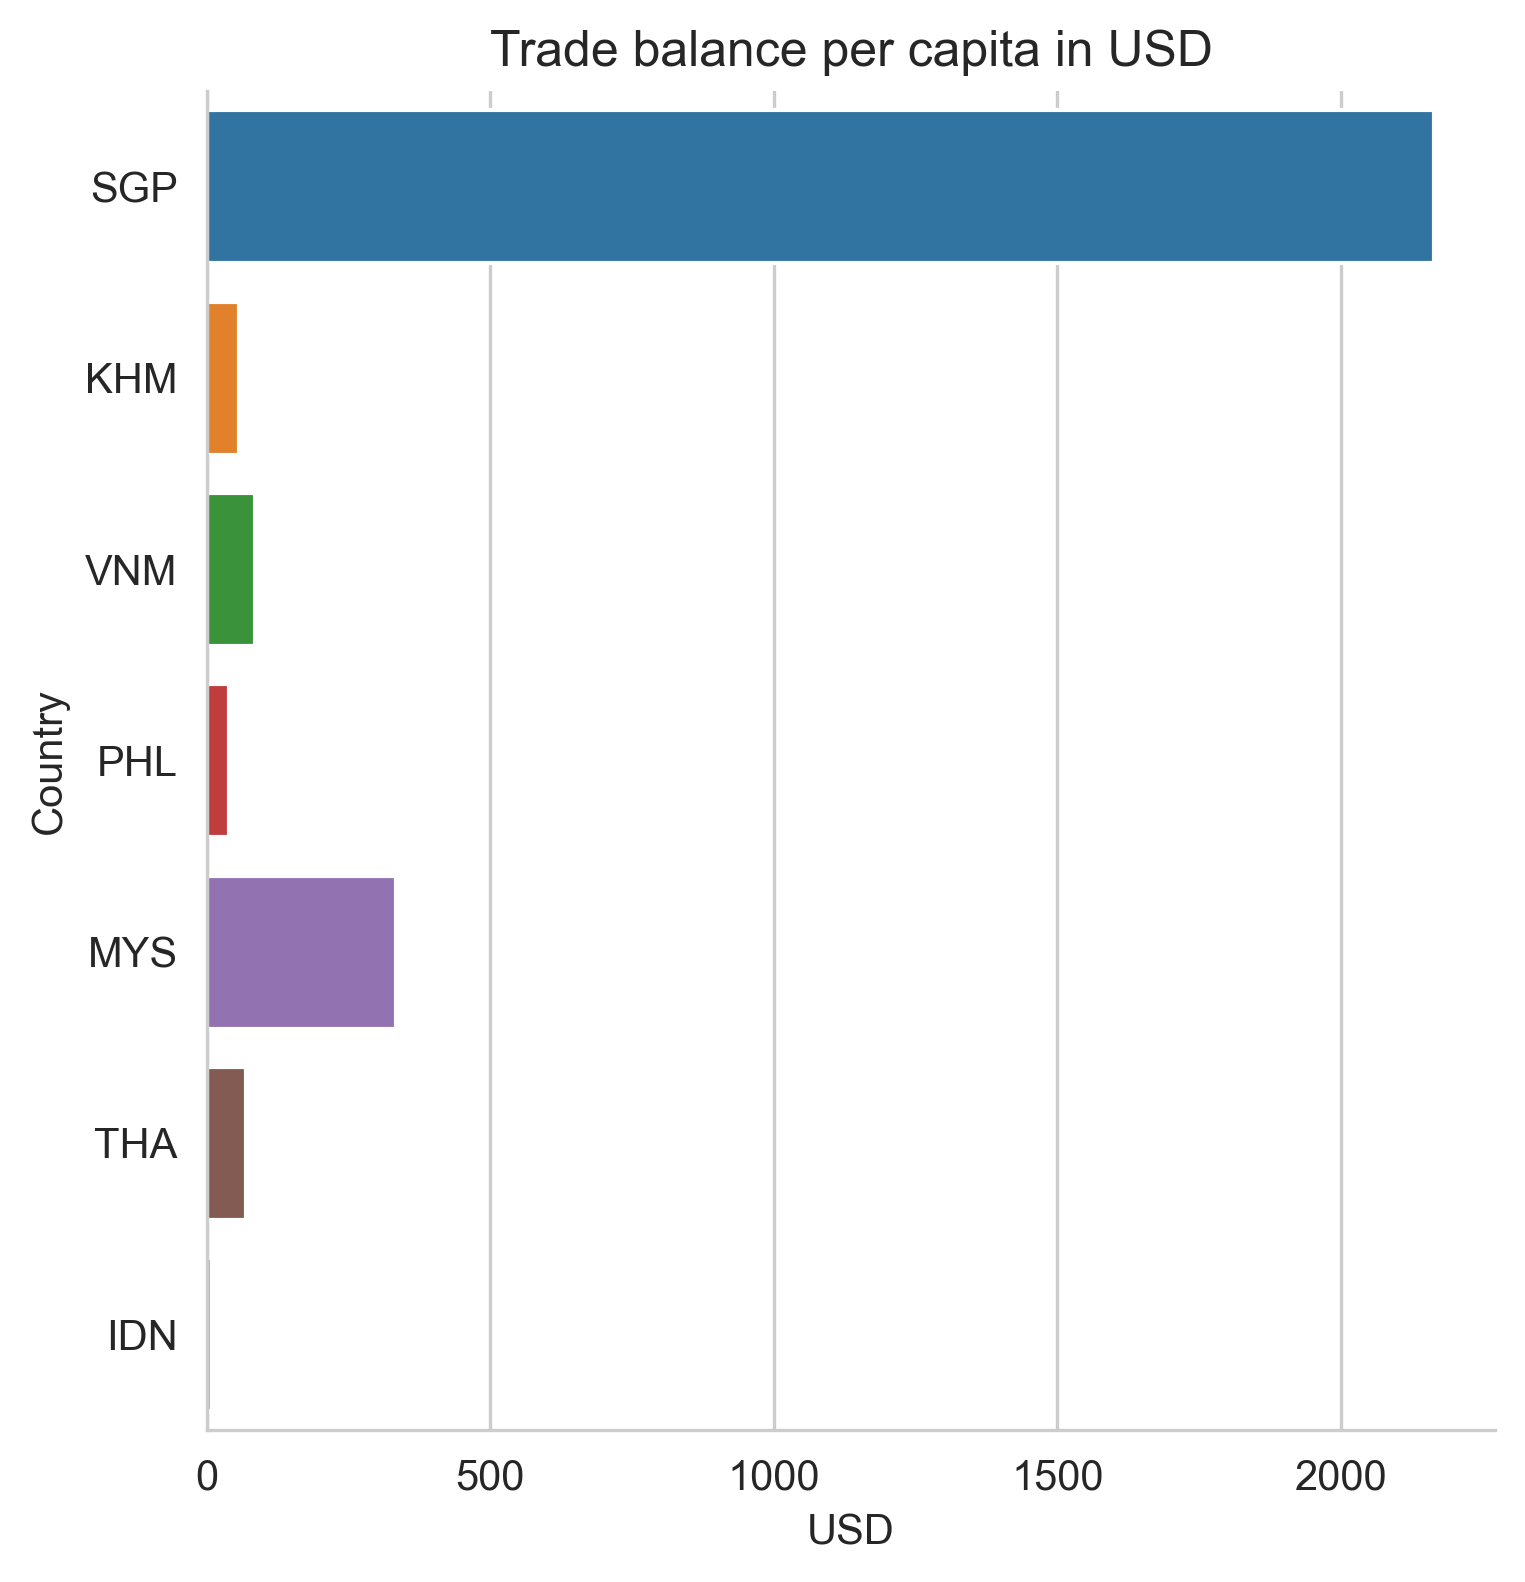
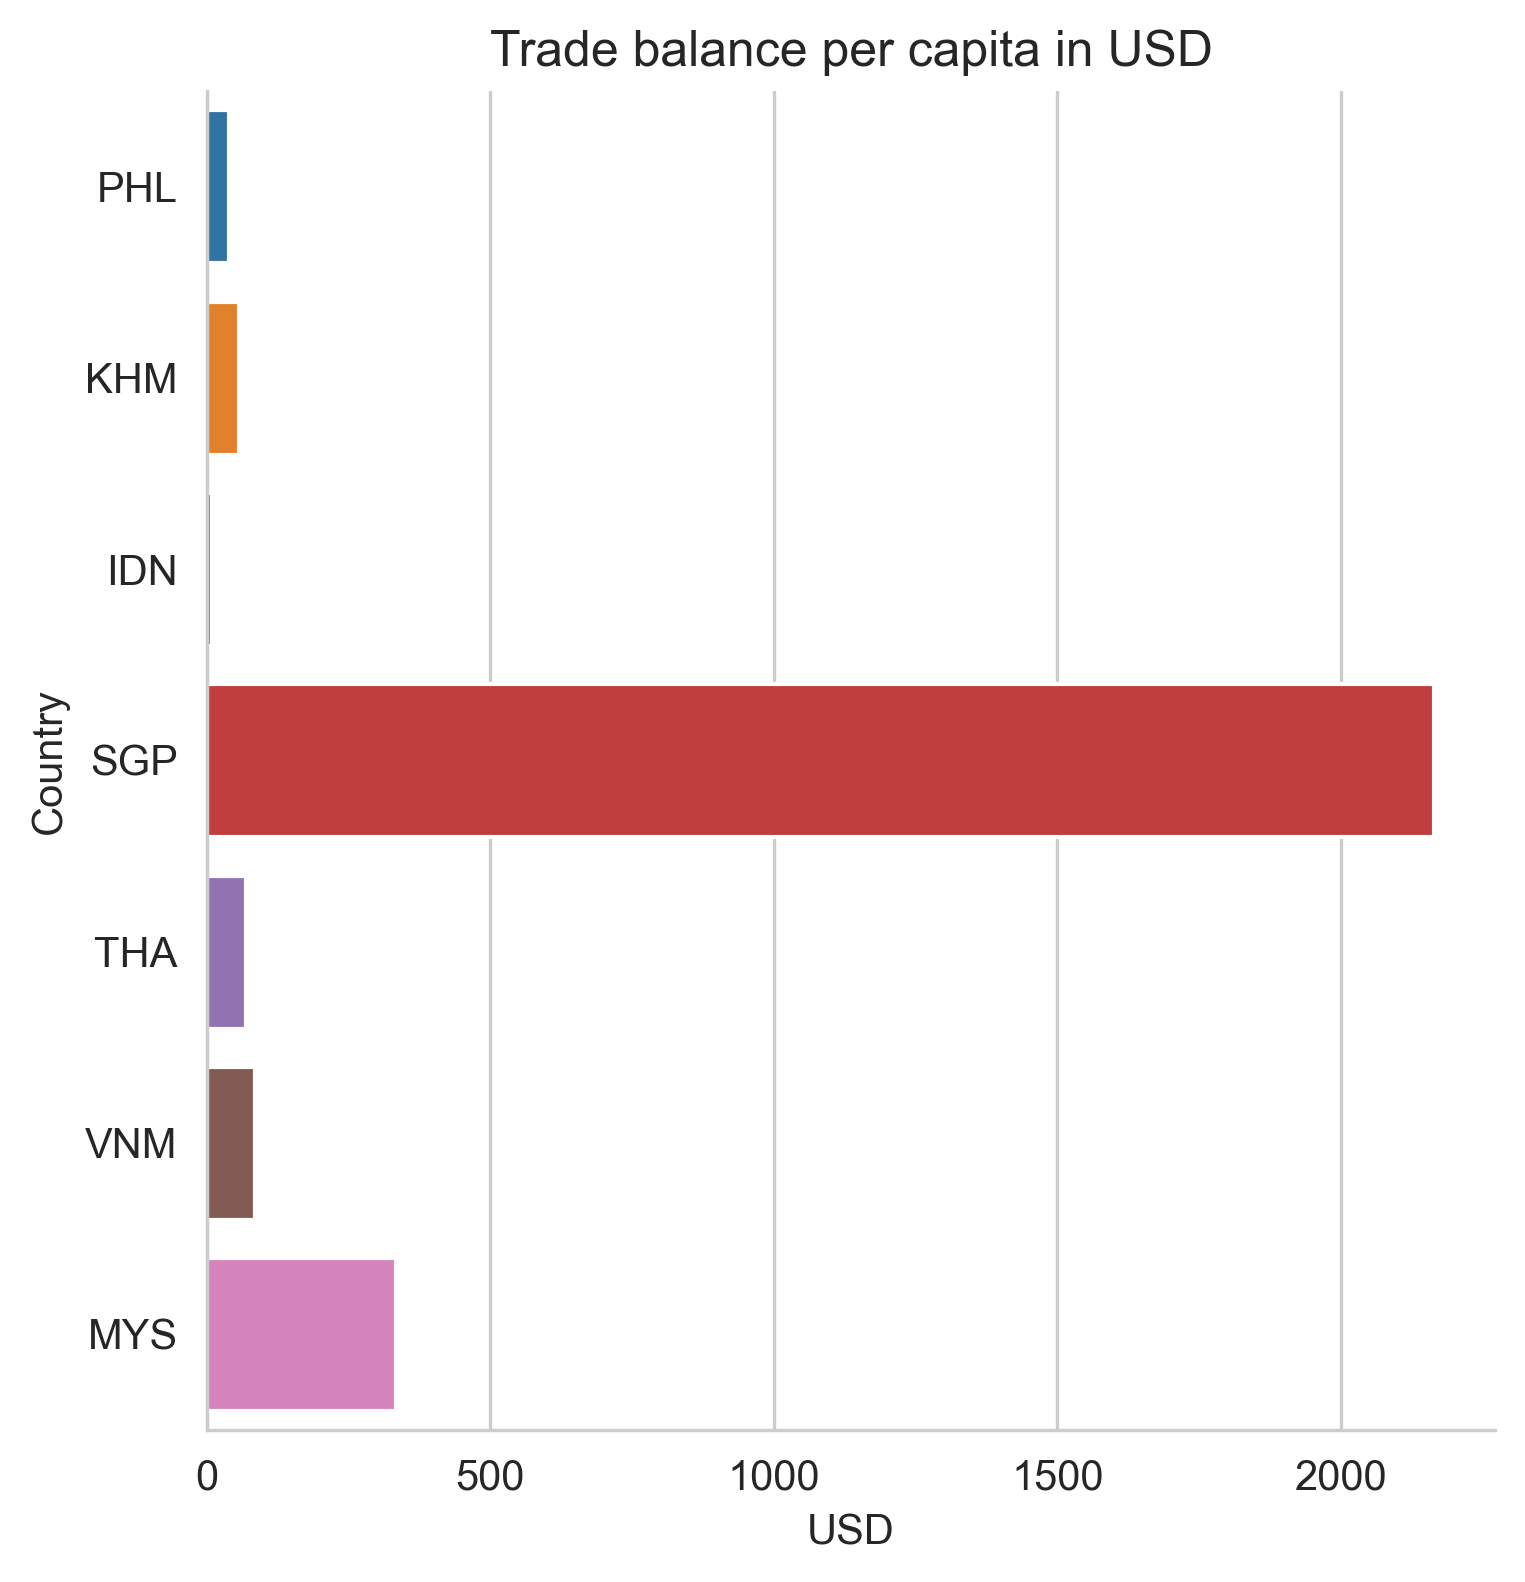
update remote

diff --git a/python/explore_energy_generation.py b/python/explore_energy_generation.py
@@ -177,11 +177,7 @@ svk_df = top10_products(labelled_df, 'SVK')
 svn_df = top10_products(labelled_df, 'SVN')
 esp_df = top10_products(labelled_df, 'ESP')
 swe_df = top10_products(labelled_df, 'SWE')
-
-
 # Create a function that returns the top 10 trade partners by trade balance weighted by population for a given location_code
-
-
 # Convert the following code into a function 
 # The function takes a dataframe and a location_code as input
 # The function plots a barplot of the top 10 trade partners for the location_code
@@ -286,6 +282,8 @@ plot_top10_partners(svn_df, 'SVN')
 plot_top10_partners(swe_df, 'SWE')
 #plot_top10_partners(tur_df, 'TUR')
 #plot_top10_partners(usa_df, 'USA')
+
+
 
 
 # Combine the five datasets 
@@ -413,6 +411,26 @@ plt.xlabel('USD')
 plt.ylabel('Country')
 plt.savefig('../output/avg_trade_bal_per_capita_eu.png', dpi=300, bbox_inches='tight')
 
+############################################
+
+nato_df = pl.concat([aut_df, bel_df, bgr_df, cyp_df, cze_df, deu_df, dnk_df, est_df, fin_df, fra_df, grc_df, hun_df, irl_df, ita_df, lva_df, ltu_df, lux_df, mlt_df, nld_df, pol_df, prt_df, rou_df, svk_df, svn_df, esp_df, swe_df, dza_df, ago_df, cog_df, gnq_df, gab_df, irn_df, irq_df, kwt_df, lby_df, nga_df, qat_df, sau_df, are_df, ven_df, yem_df, rus_df, ind_df, chn_df, bra_df, zaf_df, vnm_df, sgp_df, tha_df, phl_df, mys_df, idn_df, khm_df])
+aggregated_nato_df = (
+    asean_df
+    .groupby(['location_code'])
+    .agg(
+        pl.col('trade_bal_by_population').mean().alias('avg_trade_bal_per_capita')
+    ) )
+
+print(aggregated_nato_df)
+# Convert polars table to png and save to output
+# Write the code
+fig, ax = plt.subplots(figsize=(5, 3))
+sns.set_style("whitegrid")
+sns.factorplot(x='avg_trade_bal_per_capita', y='location_code', data=aggregated_nato_df.to_pandas(), kind='bar')
+plt.title('Trade balance per capita in USD')
+plt.xlabel('USD')
+plt.ylabel('Country')
+plt.savefig('../output/avg_trade_bal_per_capita_nato.png', dpi=300, bbox_inches='tight')
 
 # Plot bar plot with each subfigure representing a country code
 

diff --git a/README.md b/README.md
@@ -50,7 +50,7 @@ In order to compare apples to apples, we need to weight the trade balance by pop
 ![](output/avg_trade_bal_per_capita_brics.png)
 
 ### NATO
-
+![](output/avg_trade_bal_per_capita_nato.png)
 
 **References**
 --------------
